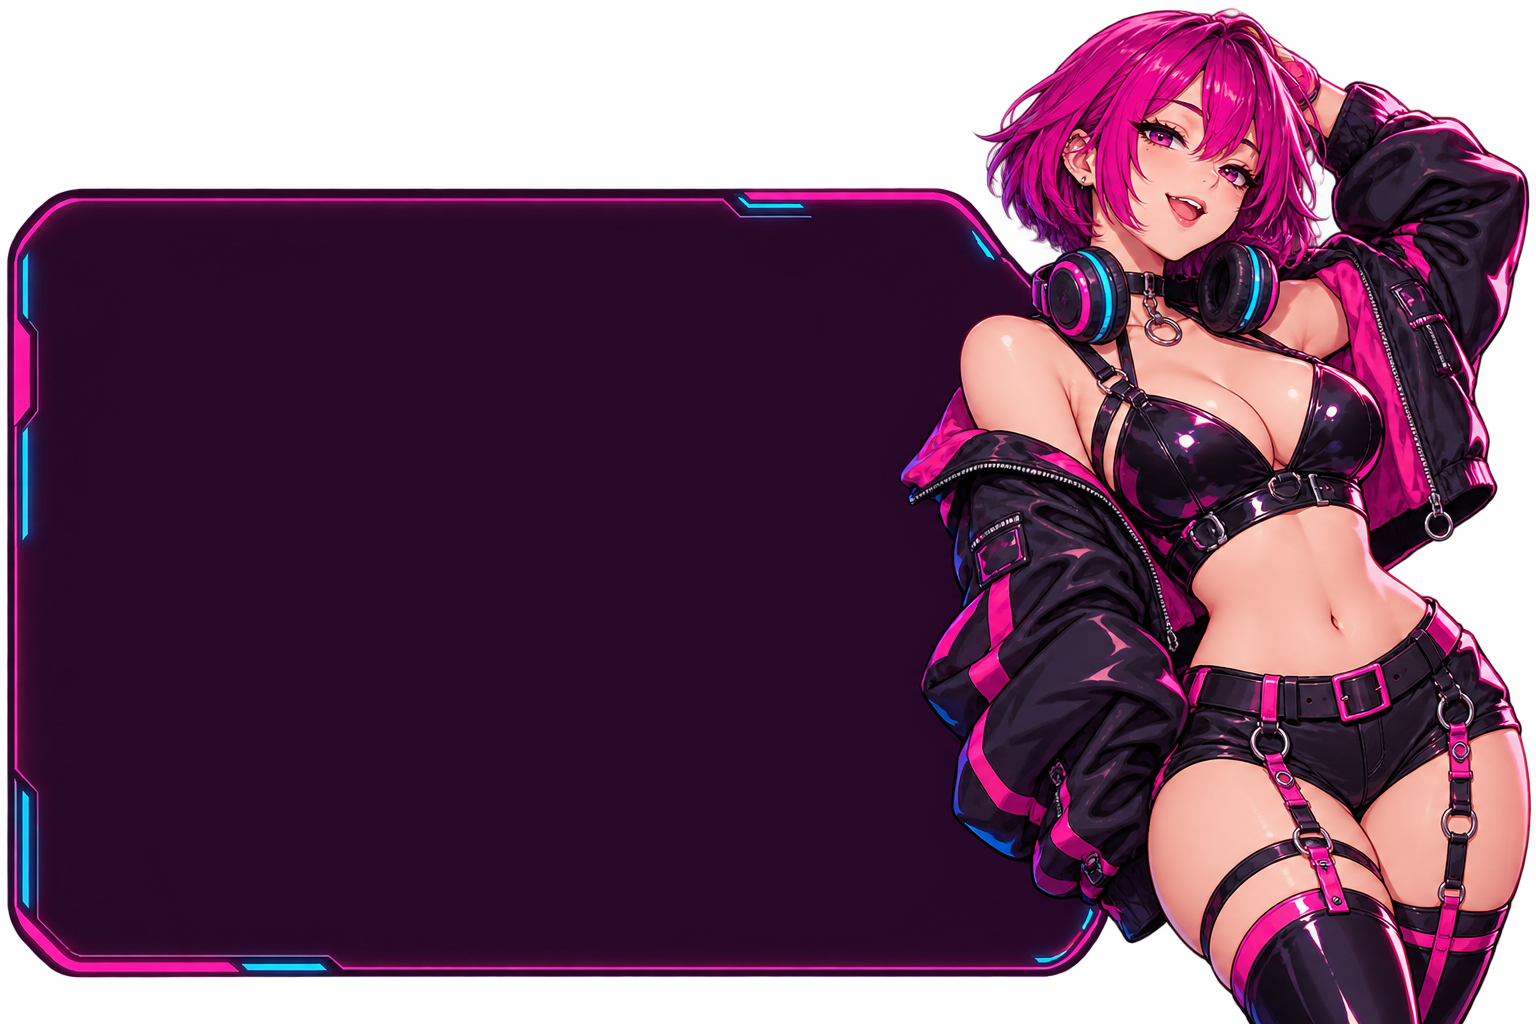
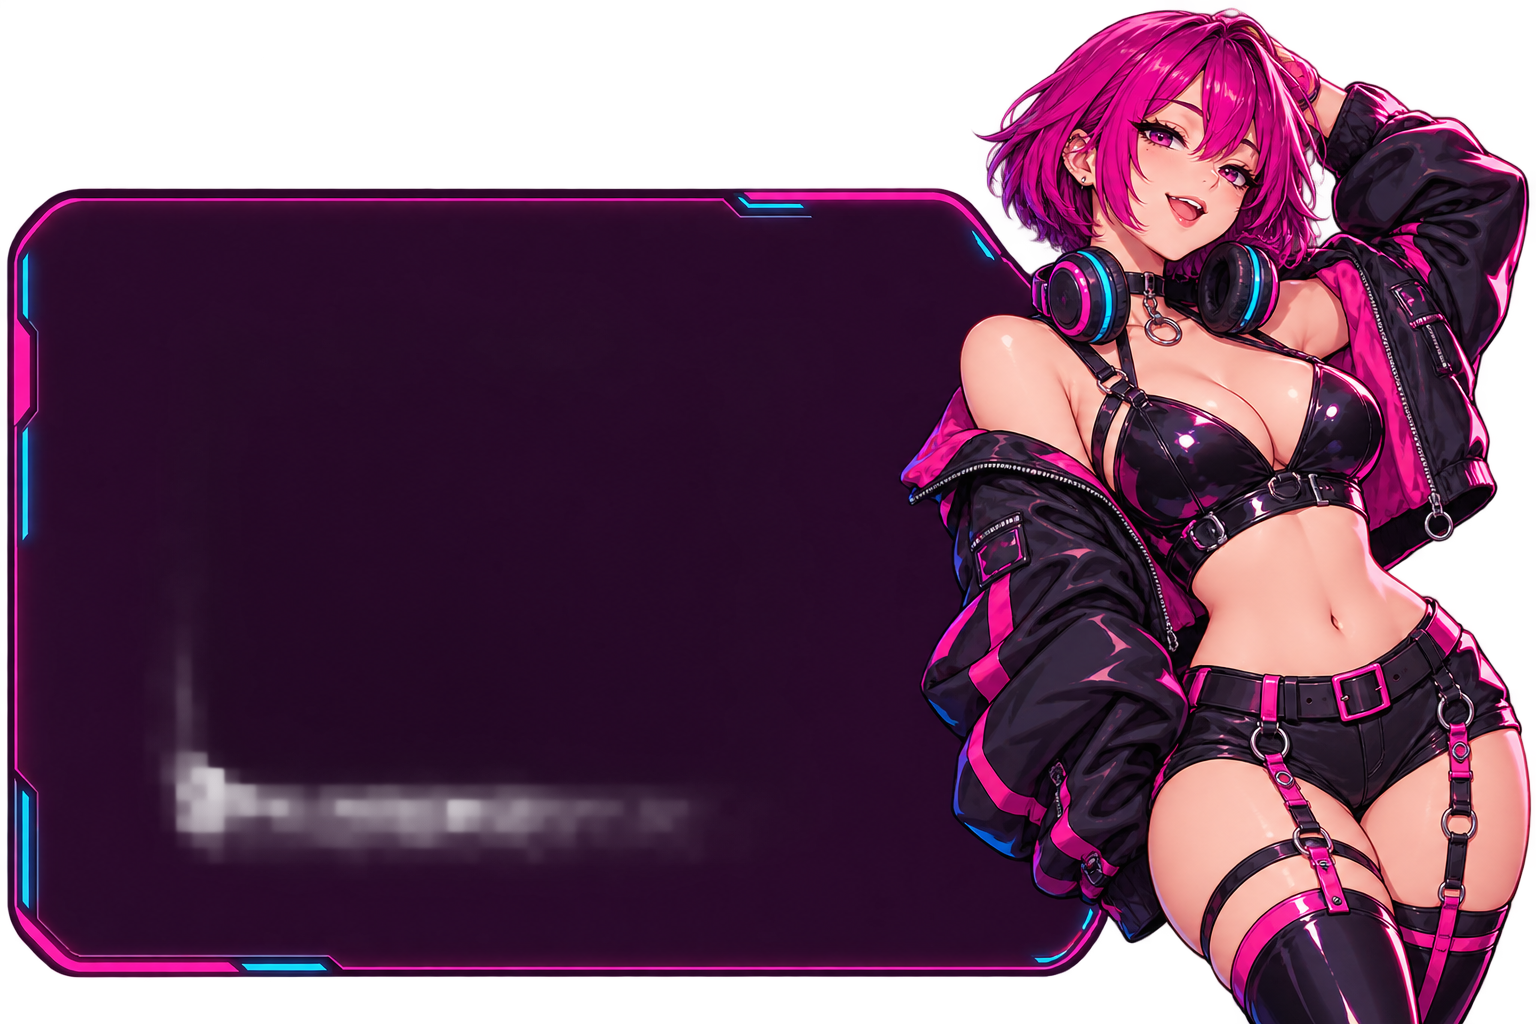
Optimized skin load, fix window_opacity

Changed region(s): [[0.0938, 0.625, 0.4688, 0.8438]]

diff --git a/manager/SkinHelper.hpp b/manager/SkinHelper.hpp
@@ -12,6 +12,7 @@
 #include "SkinFileUtil.hpp"
 #include "BackgroundLayerPainter.hpp"
 #include "../util/StringUtil.hpp"
+#include "common/GuaranteedSkinJson.hpp"
 
 // 监听皮肤文件改动
 inline std::thread g_skinFileWatcherThread;
@@ -125,6 +126,7 @@ static void getSkinPictureFile(Gdiplus::Image*& image, const std::string& skinKe
 			image = nullptr;
 			ShowErrorMsgBox(L"加载背景图片失败");
 		}
+		image = BakeSkinWindowOpacity(image);
 	}
 }
 
@@ -142,6 +144,7 @@ static void getSkinPictureFile(Gdiplus::Image*& image, const std::string& skinKe
 			image = nullptr;
 			ShowErrorMsgBox(L"加载背景图片失败");
 		}
+		image = BakeSkinWindowOpacity(image);
 	}
 }
 
@@ -233,13 +236,20 @@ static bool refreshSkin(std::wstring& skinPath, const bool isShowWindow = true) 
 	std::ifstream in((skinPath.data()));
 	if (!in) {
 		Loge(L"SkinHelper", L"文件不存在: ", skinPath);
-		return false;
+		skinPath = getCurrectSkinPath(L"default");
+		in = std::ifstream((skinPath.data()));
 	}
+	std::string utf8json;
 
-	// 读取整个文件内容（UTF-8 编码）
-	std::ostringstream buffer;
-	buffer << in.rdbuf();
-	std::string utf8json = buffer.str();
+	if (!in) {
+		Loge(L"SkinHelper", L"文件不存在: ", skinPath);
+		utf8json = GUARANTEED_SKIN_JSON;
+	} else {
+		// 读取整个文件内容（UTF-8 编码）
+		std::ostringstream buffer;
+		buffer << in.rdbuf();
+		utf8json = buffer.str();
+	}
 
 	// 解析 JSON
 	try {
@@ -252,20 +262,22 @@ static bool refreshSkin(std::wstring& skinPath, const bool isShowWindow = true) 
 		g_skinJson["skin_folder"] = std::filesystem::absolute(fullPath.parent_path()).u8string();
 	} catch (const nlohmann::json::parse_error& e) {
 		Loge(L"SkinHelper", L"JSON 解析错误: ", e.what());
-		return false;
+		try {
+			g_skinJson = nlohmann::json::parse(GUARANTEED_SKIN_JSON);
+			std::filesystem::path fullPath(skinPath);
+		} catch (const nlohmann::json::parse_error& e2) {
+			Loge(L"SkinHelper", L"JSON 解析错误: ", e2.what());
+			return false;
+		}
 	}
 	// --- 1. 更新主窗口 ---
 	MAIN_WINDOW_WIDTH = g_skinJson.value("window_width", DEFAULT_MAIN_WINDOW_WIDTH);
 	MAIN_WINDOW_HEIGHT = g_skinJson.value("window_height", DEFAULT_MAIN_WINDOW_HEIGHT);
 	SetWindowPos(g_mainHwnd, nullptr, 0, 0, MAIN_WINDOW_WIDTH, MAIN_WINDOW_HEIGHT, SWP_NOMOVE | SWP_NOZORDER);
 
-	int windowOpacity = g_skinJson.value("window_opacity", 255);
-	if (windowOpacity < 0) windowOpacity = 0;
-	if (windowOpacity > 255) windowOpacity = 255;
-	if (g_lastWindowOpacity != windowOpacity) {
-		g_lastWindowOpacity = windowOpacity;
-		SetLayeredWindowAttributes(g_mainHwnd, 0, static_cast<BYTE>(windowOpacity), LWA_ALPHA);
-	}
+	// 透明度在加载背景图、解析背景色时烘焙进 alpha（见 ApplySkinWindowOpacity），这里只需先记录下来。
+	// 不要改回 SetLayeredWindowAttributes：那会让主窗口变成分层窗口，输入时整窗闪烁
+	g_skinWindowOpacity = std::clamp(g_skinJson.value("window_opacity", 255), 0, 255);
 
 	// --- 2. 更新编辑框 (hEdit) ---
 	if (g_settings_map["pref_search_box_placeholder_use_theme"].boolValue) {

diff --git a/manager/BackgroundLayerPainter.hpp b/manager/BackgroundLayerPainter.hpp
@@ -5,6 +5,40 @@
 #include "../common/GlobalState.hpp"
 #include "../util/ColorUtil.hpp"
 
+// 皮肤 window_opacity 的实现：按比例降低背景色的 alpha。
+// 不能用 SetLayeredWindowAttributes：调用后主窗口会永久变成分层窗口（精灵），
+// 编辑框每次输入时的 LockWindowUpdate 会让整个窗口闪烁一下，切回其他皮肤也不会恢复。
+// 主窗口本身已支持逐像素透明，所以直接把透明度烘焙进背景色和背景图即可；文字和图标保持不透明
+static Gdiplus::Color ApplySkinWindowOpacity(const Gdiplus::Color& color) {
+	if (g_skinWindowOpacity >= 255) return color;
+	const int alpha = static_cast<int>(color.GetA()) * g_skinWindowOpacity / 255;
+	return Gdiplus::Color(static_cast<BYTE>(alpha), color.GetR(), color.GetG(), color.GetB());
+}
+
+// 把 window_opacity 烘焙进皮肤图片，返回新的图片对象（原图片被释放）；不透明时原样返回
+static Gdiplus::Image* BakeSkinWindowOpacity(Gdiplus::Image* image) {
+	if (!image || g_skinWindowOpacity >= 255) return image;
+	const UINT width = image->GetWidth();
+	const UINT height = image->GetHeight();
+	if (width == 0 || height == 0) return image;
+	auto* bitmap = new Gdiplus::Bitmap(static_cast<INT>(width), static_cast<INT>(height), PixelFormat32bppPARGB);
+	if (bitmap->GetLastStatus() != Gdiplus::Ok) {
+		delete bitmap;
+		return image;
+	}
+	Gdiplus::Graphics graphics(bitmap);
+	graphics.Clear(Gdiplus::Color(0, 0, 0, 0));
+	Gdiplus::ColorMatrix matrix{};
+	for (int i = 0; i < 5; ++i) matrix.m[i][i] = 1.f;
+	matrix.m[3][3] = static_cast<Gdiplus::REAL>(g_skinWindowOpacity) / 255.f;
+	Gdiplus::ImageAttributes attributes;
+	attributes.SetColorMatrix(&matrix, Gdiplus::ColorMatrixFlagsDefault, Gdiplus::ColorAdjustTypeBitmap);
+	graphics.DrawImage(image, Gdiplus::Rect(0, 0, static_cast<INT>(width), static_cast<INT>(height)),
+						0, 0, static_cast<INT>(width), static_cast<INT>(height), Gdiplus::UnitPixel, &attributes);
+	delete image;
+	return bitmap;
+}
+
 
 static Gdiplus::Bitmap* createScaledBackgroundBitmap(Gdiplus::Image* image, const int width, const int height) {
 	if (!image || width <= 0 || height <= 0) return nullptr;

diff --git a/common/GuaranteedSkinJson.hpp b/common/GuaranteedSkinJson.hpp
@@ -1,0 +1,74 @@
+#pragma once
+#include <string>
+
+inline const std::string GUARANTEED_SKIN_JSON = R"(
+{
+	"version": 1,
+	"window_width": 560,
+	"window_height": 500,
+	"window_bg_picture": "",
+	"window_bg_color": "#F3F3F3",
+	"window_opacity": 255,
+	"editbox_width": 536,
+	"editbox_height": 44,
+	"editbox_x": 12,
+	"editbox_y": 12,
+	"editbox_font_size": 19.0,
+	"editbox_font_family": "Segoe UI",
+	"editbox_font_color": "#1A1A1A",
+	"editbox_bg_color": "#FFFFFF",
+	"editbox_hint_color": "#8A8A8A",
+	"editbox_caret_color": "#005FB8",
+	"editbox_selection_bg_color": "#005FB8",
+	"editbox_selection_font_color": "#FFFFFF",
+	"editbox_bg_picture": "",
+	"editbox_padding_left": 12,
+	"editbox_padding_right": 12,
+	"editbox_padding_top": 4,
+	"listview_width": 536,
+	"listview_height": 424,
+	"listview_x": 12,
+	"listview_y": 64,
+	"listview_bg_color": "#F3F3F3",
+	"listview_bg_picture": "",
+	"listview_padding_left": 8,
+	"listview_padding_right": 8,
+	"listview_padding_top": 6,
+	"listview_padding_bottom": 0,
+	"listview_hide_scrollbar": true,
+	"item_width": 520,
+	"item_height": 60,
+	"item_icon_x": 6,
+	"item_icon_y": 6,
+	"item_icon_selected_x": 4,
+	"item_icon_selected_y": 6,
+	"item_text_x_1": 62,
+	"item_text_y_1": 4,
+	"item_text_x_2": 62,
+	"item_text_y_2": 26,
+	"item_text_selected_x_1": 60,
+	"item_text_selected_y_1": 4,
+	"item_text_selected_x_2": 60,
+	"item_text_selected_y_2": 26,
+	"item_font_size_1": 16,
+	"item_font_size_2": 10,
+	"item_font_size_selected_1": 16,
+	"item_font_size_selected_2": 10,
+	"item_font_family_1": "Microsoft YaHei UI",
+	"item_font_family_2": "Microsoft YaHei UI",
+	"item_font_family_selected_1": "Microsoft YaHei UI",
+	"item_font_family_selected_2": "Microsoft YaHei UI",
+	"item_font_style_1": "bold",
+	"item_font_style_2": "bold",
+	"item_font_style_selected_1": "bold",
+	"item_font_style_selected_2": "bold",
+	"item_font_color_1": "#1A1A1A",
+	"item_font_color_2": "#5D5D5D",
+	"item_font_color_selected_1": "#1A1A1A",
+	"item_font_color_selected_2": "#5D5D5D",
+	"item_bg_color": "#F3F3F3",
+	"item_bg_color_selected": "#E6EEF7",
+	"item_bg_picture": "",
+	"item_bg_picture_selected": ""
+}
+)";

diff --git a/manager/ListViewManager.hpp b/manager/ListViewManager.hpp
@@ -255,8 +255,8 @@ static void listViewInitializeGraphicsResources() {
 
 
 	if (g_skinJson != nullptr) {
-		g_listViewBackgroundColor = HexToGdiplusColor(
-			validateHexColor(g_skinJson.value("listview_bg_color", ""), "#FFFFFF"));
+		g_listViewBackgroundColor = ApplySkinWindowOpacity(HexToGdiplusColor(
+			validateHexColor(g_skinJson.value("listview_bg_color", ""), "#FFFFFF")));
 		g_itemIconSelectedX = g_skinJson.value("item_icon_selected_x", 4);
 		g_itemIconSelectedY = g_skinJson.value("item_icon_selected_y", 4);
 		g_itemIconX = g_skinJson.value("item_icon_x", 4);
@@ -303,8 +303,8 @@ static void listViewInitializeGraphicsResources() {
 	} else {
 	}
 
-	Gdiplus::Color itemBgGdiplusColor = HexToGdiplusColor(itemBgColor);
-	Gdiplus::Color itemBgGdiplusColorSelected = HexToGdiplusColor(itemBgColorSelected);
+	Gdiplus::Color itemBgGdiplusColor = ApplySkinWindowOpacity(HexToGdiplusColor(itemBgColor));
+	Gdiplus::Color itemBgGdiplusColorSelected = ApplySkinWindowOpacity(HexToGdiplusColor(itemBgColorSelected));
 
 	Gdiplus::Color itemFontGdiplusColor1 = HexToGdiplusColor(itemFontColor1);
 	Gdiplus::Color itemFontGdiplusColor2 = HexToGdiplusColor(itemFontColor2);

diff --git a/manager/EditControlPainter.hpp b/manager/EditControlPainter.hpp
@@ -29,7 +29,7 @@ inline EditPaintStyle g_editPaintStyle;
 
 // 皮肤更新时解析一次；闪烁和输入触发的 WM_PAINT 只读取已解析的值。
 static void RefreshEditPaintStyle() {
-	g_editPaintStyle.background = GetColor("editbox_bg_color", "#FFFFFF");
+	g_editPaintStyle.background = ApplySkinWindowOpacity(GetColor("editbox_bg_color", "#FFFFFF"));
 	g_editPaintStyle.font = GetColor("editbox_font_color", "#222222");
 	g_editPaintStyle.selectionBackground = GetColor("editbox_selection_bg_color", "#3399FF");
 	g_editPaintStyle.selectionFont = GetColor("editbox_selection_font_color", "#FFFFFF");

diff --git a/common/AppController.hpp b/common/AppController.hpp
@@ -331,7 +331,7 @@ inline int MainWindowCustomPaint(PAINTSTRUCT ps, HDC hdc) {
 				return 1;
 			} else {
 				// 绘制透明色
-				Gdiplus::SolidBrush bgBrush(HexToGdiplusColor(bgColorStr));
+				Gdiplus::SolidBrush bgBrush(ApplySkinWindowOpacity(HexToGdiplusColor(bgColorStr)));
 				Gdiplus::Graphics graphics(hdc);
 				graphics.SetSmoothingMode(Gdiplus::SmoothingMode::SmoothingModeHighQuality);
 				Gdiplus::Rect rect(ps.rcPaint.left,

diff --git a/common/GlobalState.hpp b/common/GlobalState.hpp
@@ -132,7 +132,8 @@ extern std::unique_ptr<Gdiplus::Font> g_listItemFontSelected1;
 extern std::unique_ptr<Gdiplus::Font> g_listItemFontSelected2;
 extern std::wstring g_currectSkinFilePath;
 
-extern int g_lastWindowOpacity;
+// 皮肤 window_opacity（0~255）：绘制各背景层时按比例降低 alpha，不使用分层窗口
+extern int g_skinWindowOpacity;
 
 extern int g_itemIconX;
 extern int g_itemIconY;

diff --git a/common/GlobalState.cpp b/common/GlobalState.cpp
@@ -85,7 +85,7 @@ std::unique_ptr<Gdiplus::Font> g_listItemFontSelected1 = nullptr;
 std::unique_ptr<Gdiplus::Font> g_listItemFontSelected2 = nullptr;
 std::wstring g_currectSkinFilePath = L"default";
 
-int g_lastWindowOpacity = 255;
+int g_skinWindowOpacity = 255;
 
 int g_itemIconX = 4;
 int g_itemIconY = 4;
